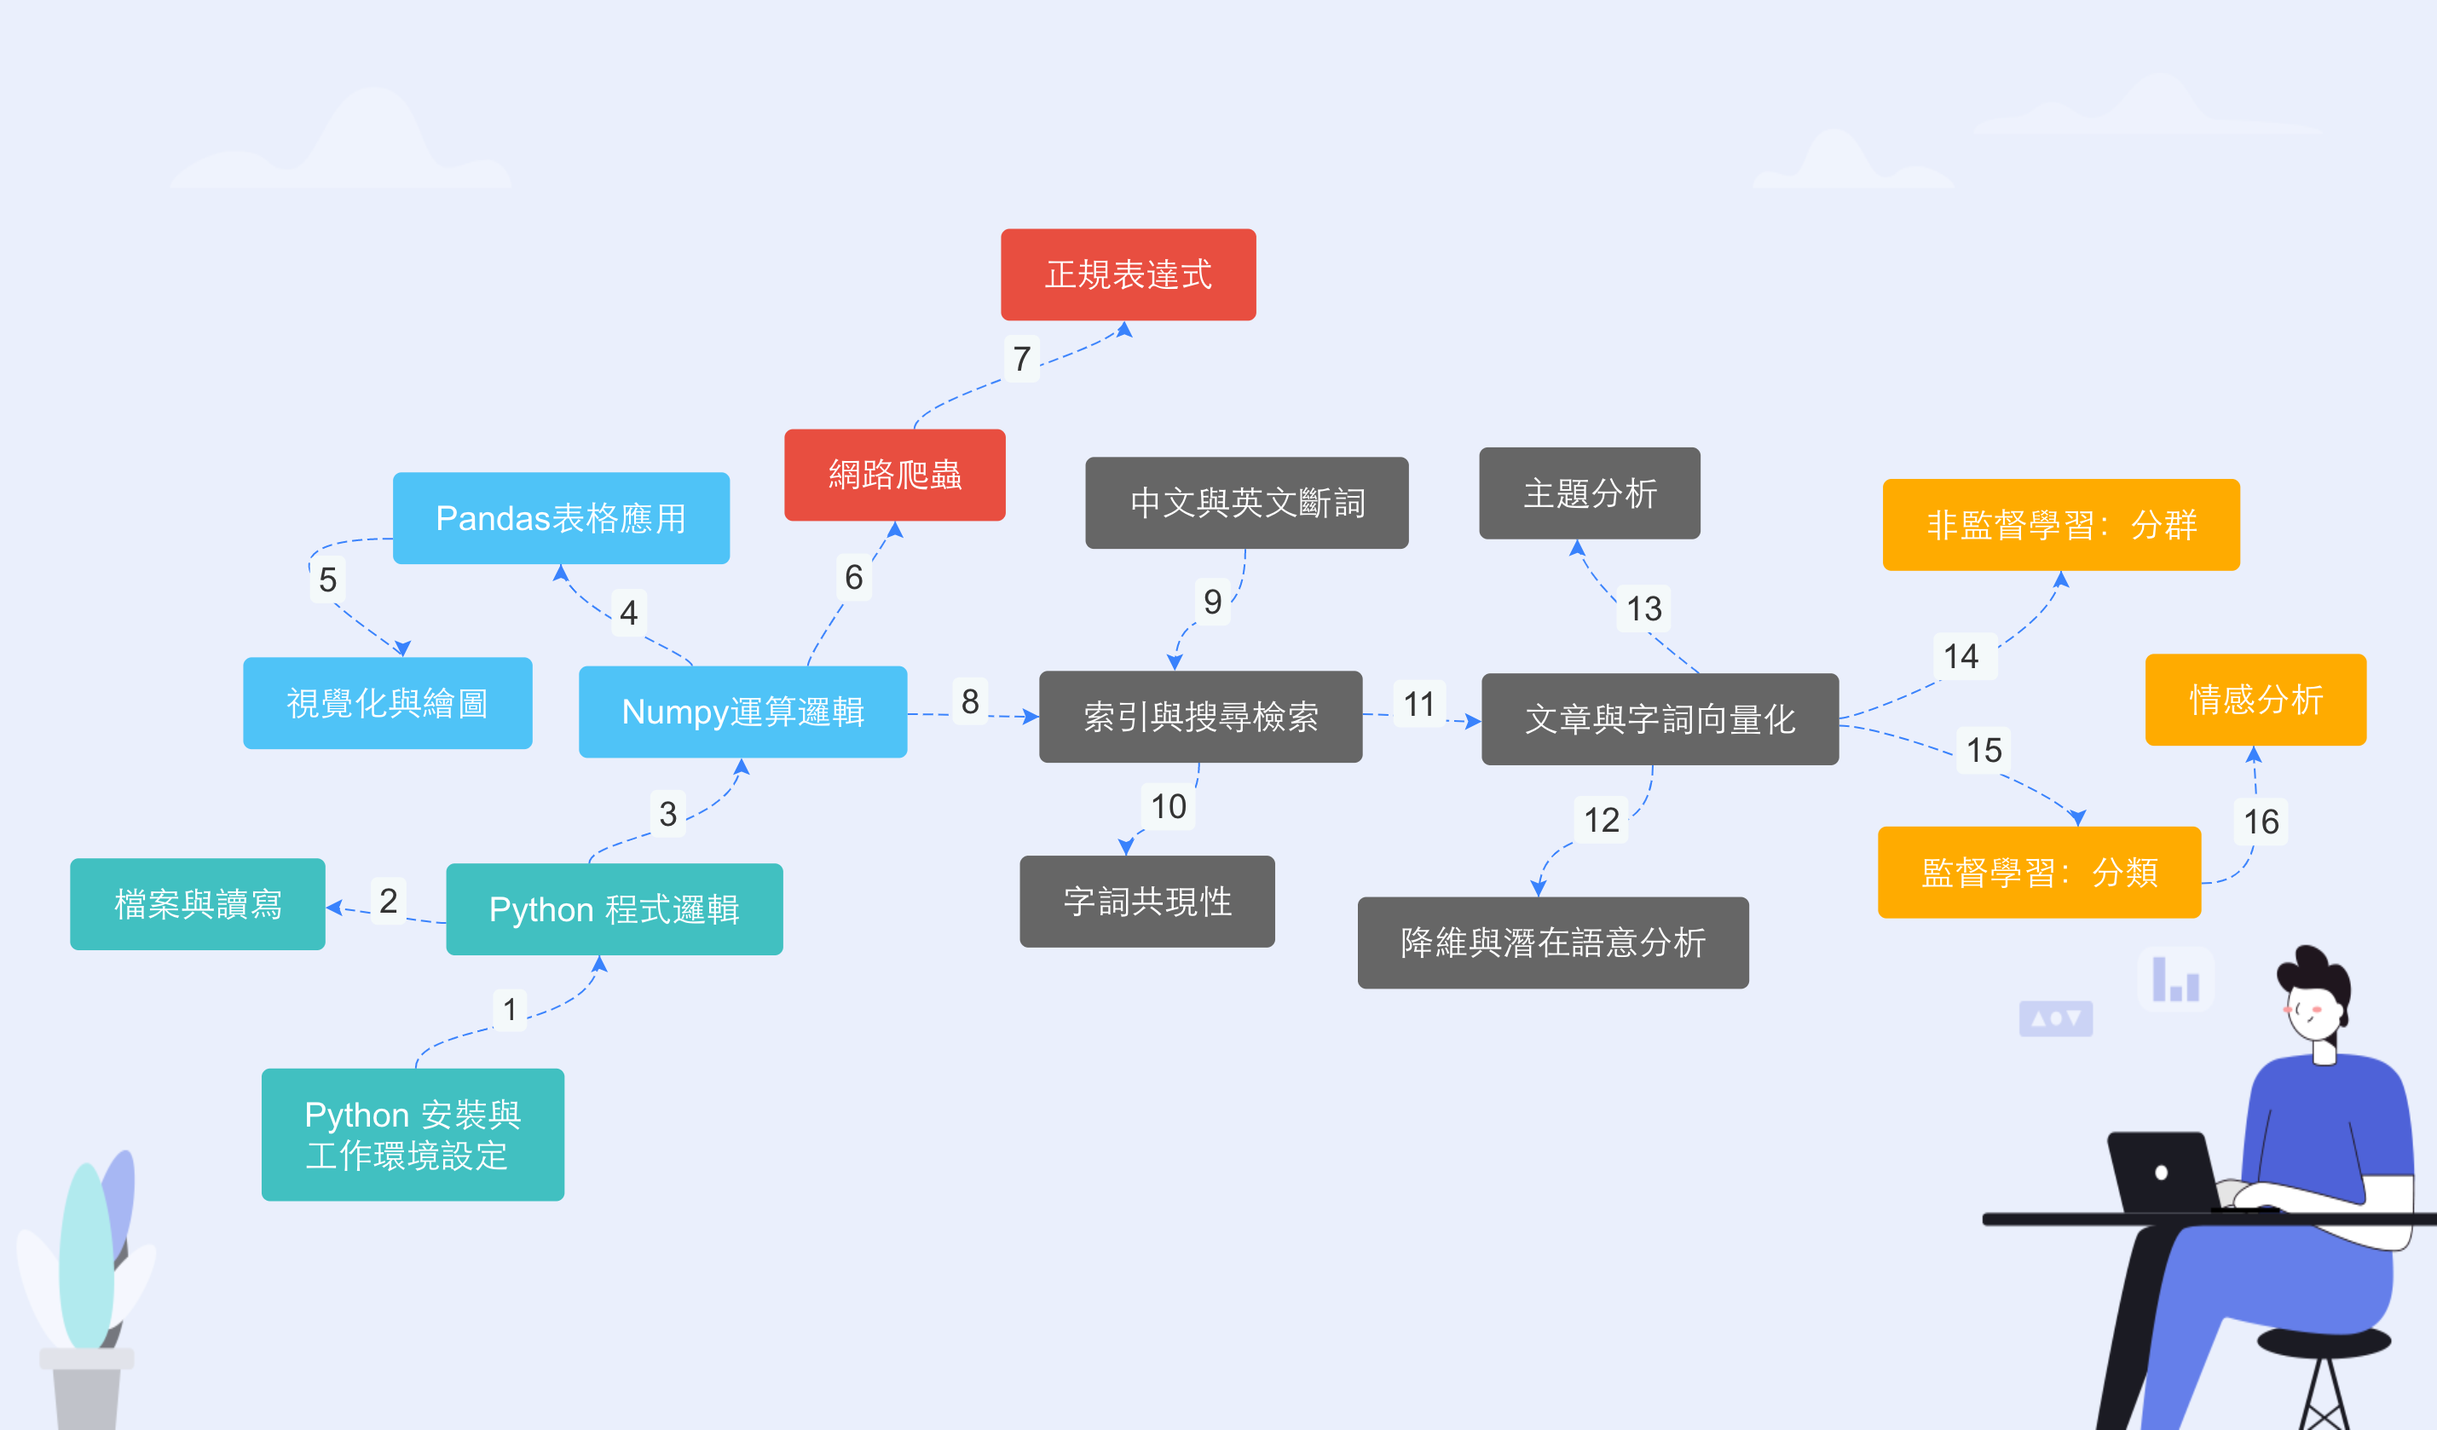
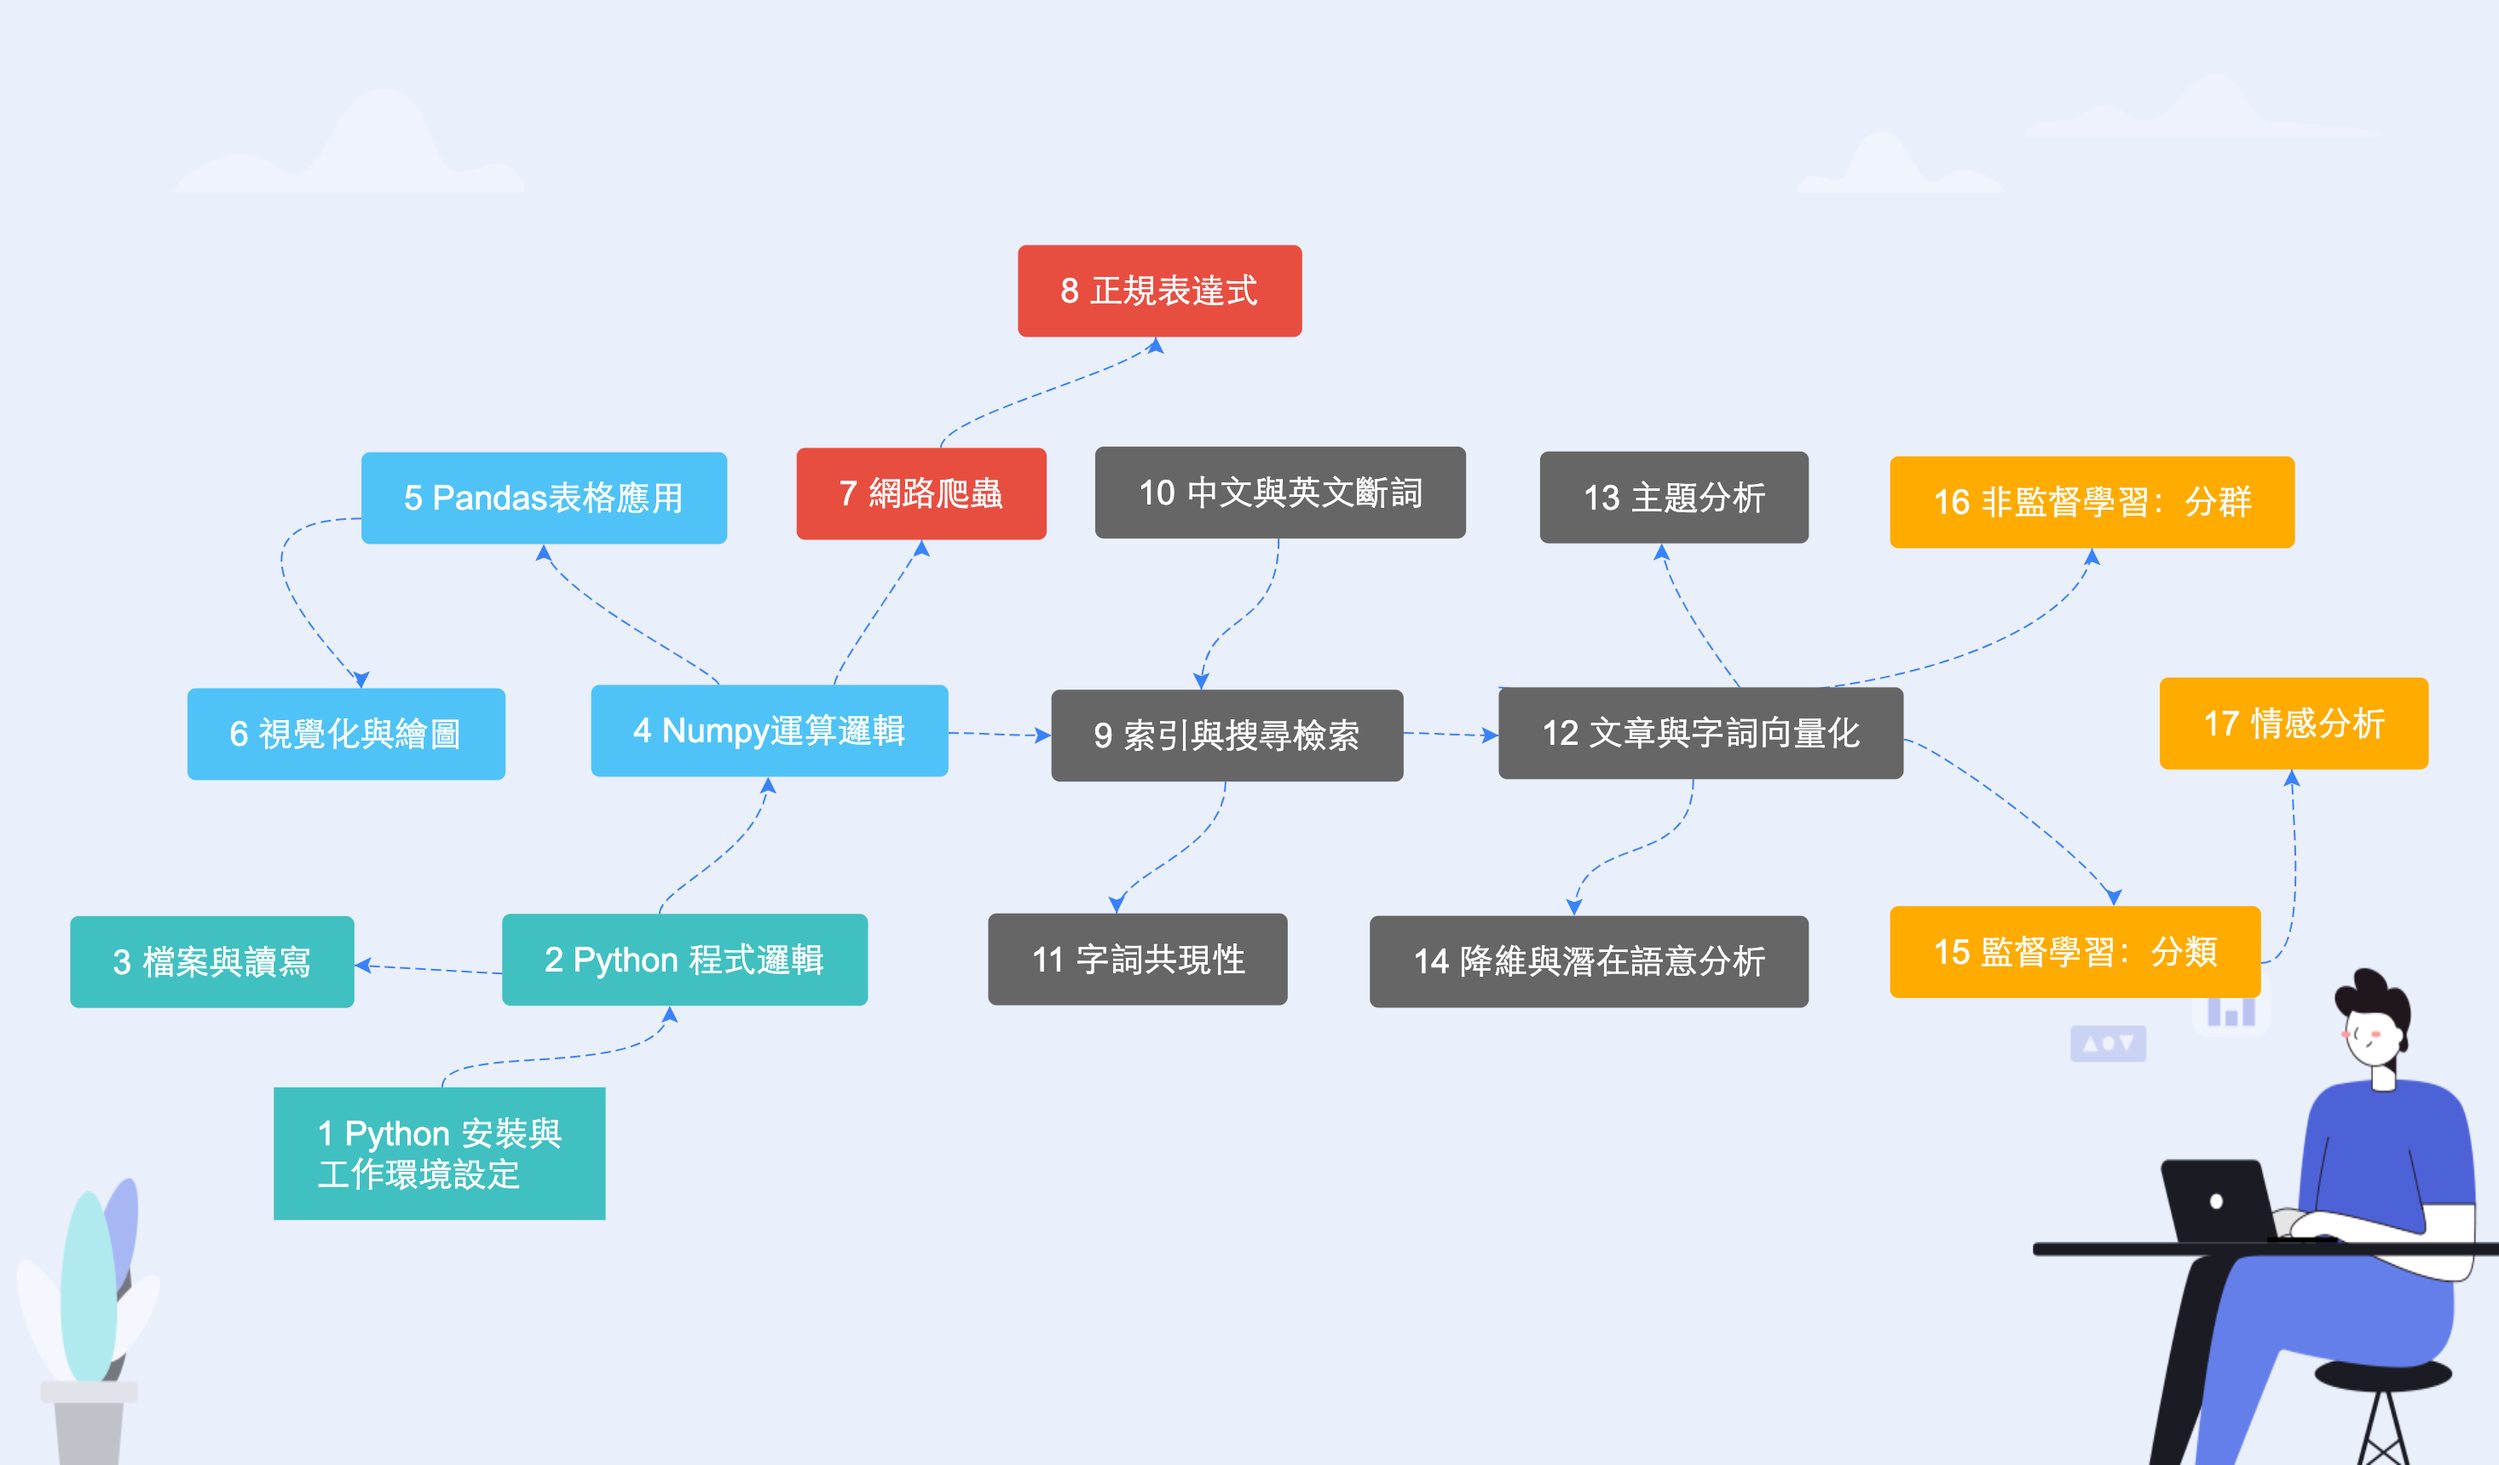
change coords

diff --git a/src/app/course/course.component.html b/src/app/course/course.component.html
@@ -1,7 +1,34 @@
 <!-- <h3 style="text-align:center">立刻開始Python探索</h3>   -->
 
+<br><br>
+
+
+<img [src]="netImage" alt="Workplace" usemap="#image-map" style="width: fit-content;">
+<!-- 2880 1446 -->
+<!-- 968 2.73 -->
+
+<map name="image-map">
+    <area target="" alt="正規" title="正規" href="" coords="1168,168,1504,280" (click)="getCourse(courses[9])"  data-target="#myModal" data-toggle="modal" style="cursor: pointer;" shape="rect">
+    <area target="" alt="表格" title="表格" href="" coords="415,402,837,514" (click)="getCourse(courses[5])"  data-target="#myModal" data-toggle="modal" style="cursor: pointer;" shape="rect">
+    <area target="" alt="爬蟲" title="爬蟲" href="" coords="913,402,1211,512" (click)="getCourse(courses[7])"  data-target="#myModal" data-toggle="modal" style="cursor: pointer;" shape="rect">
+    <area target="" alt="斷詞" title="斷詞" href="" coords="1259,397,1697,509" (click)="getCourse(courses[11])"  data-target="#myModal" data-toggle="modal" style="cursor: pointer;" shape="rect">
+    <area target="" alt="主題分析" title="主題分析" href="" coords="1768,407,2089,514" (click)="getCourse(courses[15])"  data-target="#myModal" data-toggle="modal" style="cursor: pointer;" shape="rect">
+    <area target="" alt="非監督" title="非監督" href="" coords="2168,412,2648,524" (click)="getCourse(courses[17])"  data-target="#myModal" data-toggle="modal" style="cursor: pointer;" shape="rect">
+    <area target="" alt="繪圖" title="繪圖" href="" coords="211,682,585,786" (click)="getCourse(courses[6])"  data-target="#myModal" data-toggle="modal" style="cursor: pointer;"  shape="rect">
+    <area target="" alt="Numpy" title="Numpy" href="" coords="679,677,1091,781" (click)="getCourse(courses[4])"  data-target="#myModal" data-toggle="modal" style="cursor: pointer;"  shape="rect">
+    <area target="" alt="索引" title="索引" href="" coords="1214,677,1621,786" (click)="getCourse(courses[10])"  data-target="#myModal" data-toggle="modal" style="cursor: pointer;"  shape="rect">
+    <area target="" alt="字詞向量" title="字詞向量" href="" coords="1725,682,2196,786" (click)="getCourse(courses[13])"  data-target="#myModal" data-toggle="modal" style="cursor: pointer;"  shape="rect">
+    <area target="" alt="情感" title="情感" href="" coords="2483,672,2804,781" (click)="getCourse(courses[18])"  data-target="#myModal" data-toggle="modal" style="cursor: pointer;"  shape="rect">
+    <area target="" alt="檔案" title="檔案" href="" coords="71,942,412,1041" (click)="getCourse(courses[3])"  data-target="#myModal" data-toggle="modal" style="cursor: pointer;"  shape="rect">
+    <area target="" alt="邏輯" title="邏輯" href="" coords="570,939,1002,1041" (click)="getCourse(courses[2])"  data-target="#myModal" data-toggle="modal" style="cursor: pointer;"  shape="rect">
+    <area target="" alt="共現性" title="共現性" href="" coords="1137,942,1491,1044" (click)="getCourse(courses[14])"  data-target="#myModal" data-toggle="modal" style="cursor: pointer;"  shape="rect">
+    <area target="" alt="語意分析" title="語意分析" href="" coords="1580,937,2091,1049" (click)="getCourse(courses[12])"  data-target="#myModal" data-toggle="modal" style="cursor: pointer;"  shape="rect">
+    <area target="" alt="監督學習" title="監督學習" href="" coords="2175,932,2610,1038" (click)="getCourse(courses[16])"  data-target="#myModal" data-toggle="modal" style="cursor: pointer;"  shape="rect">
+    <area target="" alt="安裝環境" title="安裝環境" href="" coords="310,1143,702,1288" (click)="getCourse(courses[0])"  data-target="#myModal" data-toggle="modal" style="cursor: pointer;"  shape="rect">
+</map>
+
+<!--
 <div class="aaa filter">
-  <!-- <img [src]="netImage" style="height: 100%; width: 100%;" class="aaa"> -->
   <div class="row row-cols-3 center">
     <div class="col"></div>
     <div class="col">
@@ -39,9 +66,18 @@
 </div>
 
 
-</div>
+</div> -->
 
 <app-modal></app-modal>
+
+
+<!-- <script src="http://ajax.googleapis.com/ajax/libs/jquery/1.11.2/jquery.min.js"></script> -->
+<!-- <script src="http://mattstow.com/experiment/responsive-image-maps/jquery.rwdImageMaps.min.js"></script> -->
+<!-- <script>
+    $(document).ready(function(e) {
+        $('img[usemap]').rwdImageMaps();
+    });
+</script> -->
 <!--
 
 <div class="container" style="padding-top: 80px;">

diff --git a/src/app/course/course.component.ts b/src/app/course/course.component.ts
@@ -1,10 +1,12 @@
-import { Component, OnInit, Input } from '@angular/core';
+import { Component, OnInit, Input, AfterViewInit, OnChanges, Renderer2 } from '@angular/core';
 import { courses } from '../courses';
 import { ModalService } from '../modal.service';
 
-
+declare var jquery:any; // 這邊用 var
+declare let $:any; // 當然 let 也可以
 // This lets me use jquery
 // declare var $: any;
+// declare let $: any;
 
 @Component({
   selector: 'app-course',
@@ -13,7 +15,9 @@ import { ModalService } from '../modal.service';
 })
 export class CourseComponent implements OnInit {
   courses = courses
-  netImage:any = "../assets/Python 安裝與工作環境 (1).png";
+  // netImage:any = "../assets/Python 安裝與工作環境.png";
+  netImage:any = "../assets/done.png";
+
 
   onDragEnded(event) {
     let element = event.source.getRootElement();
@@ -34,15 +38,30 @@ export class CourseComponent implements OnInit {
   }
 
   constructor(
-    private modalService: ModalService
-    ) {}
+    private modalService: ModalService,
+    // private renderer: Renderer2
+    ) {
+    }
 
   getCourse( gcourses ){
     this.modalService.getTabVal( gcourses )
   }
 
-  ngOnInit(): void {
+  // ngAfterViewInit(): void {
+  //   $('img[usemap]').rwdImageMaps();
+  // }
 
+  // ngOnChanges(): void {
+  //   $('img[usemap]').rwdImageMaps();
+  // }
+
+  ngOnInit(): void {
+    // const script = this.renderer.createElement('script');
+    // script.src = `http://mattstow.com/experiment/responsive-image-maps/jquery.rwdImageMaps.min.js`;
+    // this.renderer.appendChild(document.head, script);
+    // $(document).ready(function(e) {
+      $('img[usemap]').rwdImageMaps();
+    // });
   }
 
 }

diff --git a/src/app/course/course.component.css b/src/app/course/course.component.css
@@ -23,7 +23,7 @@ img {
   position: absolute;
 }
 
-.filter{
+/* .filter{
   filter:drop-shadow(0px 0px 10px rgba(0,0,0,.5)) ;
   background: url("https://github.com/acer1456/pythoncourse/blob/gh-pages/assets/Python%20%E5%AE%89%E8%A3%9D%E8%88%87%E5%B7%A5%E4%BD%9C%E7%92%B0%E5%A2%83.png?raw=true") center center no-repeat;
   position:fixed;
@@ -38,13 +38,20 @@ img {
   -webkit-background-size: cover;
   -o-background-size: cover;
   background-position: center 0;
-}
+} */
 
-@media only screen and (max-width: 590px) {
+/* @media only screen and (max-width: 590px) {
   .filter{
     filter:drop-shadow(0px 0px 10px rgba(0,0,0,.5)) ;
-    /* background: url("/../assets/Python 安裝與工作環境.png") center center no-repeat; */
+    background: url("/../assets/Python 安裝與工作環境.png") center center no-repeat;
     background: url("https://github.com/acer1456/pythoncourse/blob/gh-pages/assets/Python%20%E5%AE%89%E8%A3%9D%E8%88%87%E5%B7%A5%E4%BD%9C%E7%92%B0%E5%A2%83.png?raw=true") center center no-repeat;
     height:100%;
   }
+} */
+
+img[usemap] {
+  border: none;
+  height: auto;
+  max-width: 100%;
+  width: auto;
 }

diff --git a/src/index.html b/src/index.html
@@ -6,12 +6,15 @@
   <base href="/">
   <meta name="viewport" content="width=device-width, initial-scale=1">
   <link rel="icon" type="image/x-icon" href="favicon.ico">
-  <script src="../node_modules/jquery/dist/jquery.js"></script>
-  <script src="../node_modules/bootstrap/dist/js/bootstrap.js"></script>
+  <!-- <script src="../node_modules/jquery/dist/jquery.js"></script> -->
+  <!-- <script src="../node_modules/bootstrap/dist/js/bootstrap.js"></script> -->
 
+  <script src="https://ajax.googleapis.com/ajax/libs/jquery/1.12.4/jquery.min.js"></script>
+  <script src="http://mattstow.com/experiment/responsive-image-maps/jquery.rwdImageMaps.min.js"></script>
 </head>
 <body>
 
   <app-root></app-root>
+  <!-- <script src="https://ajax.googleapis.com/ajax/libs/jquery/1.12.4/jquery.min.js"></script> -->
 </body>
 </html>

diff --git a/src/app/about/about.component.ts b/src/app/about/about.component.ts
@@ -6,10 +6,13 @@ import { Component, OnInit } from '@angular/core';
   styleUrls: ['./about.component.css']
 })
 export class AboutComponent implements OnInit {
-  title = 'Python文字探勘';
+
   constructor() { }
 
-  ngOnInit(): void {
+  ngOnInit() {
+
   }
+
+
 
 }

diff --git a/src/app/app.module.ts b/src/app/app.module.ts
@@ -11,6 +11,7 @@ import { CourseDetailsComponent } from './course-details/course-details.componen
 import { SafePipe } from './course-details/safepipe';
 import {DragDropModule} from '@angular/cdk/drag-drop';
 
+
 @NgModule({
   declarations: [
     AppComponent,

diff --git a/src/environments/environment.ts b/src/environments/environment.ts
@@ -3,7 +3,7 @@
 // The list of file replacements can be found in `angular.json`.
 
 export const environment = {
-  production: false
+  production: true
 };
 
 /*
